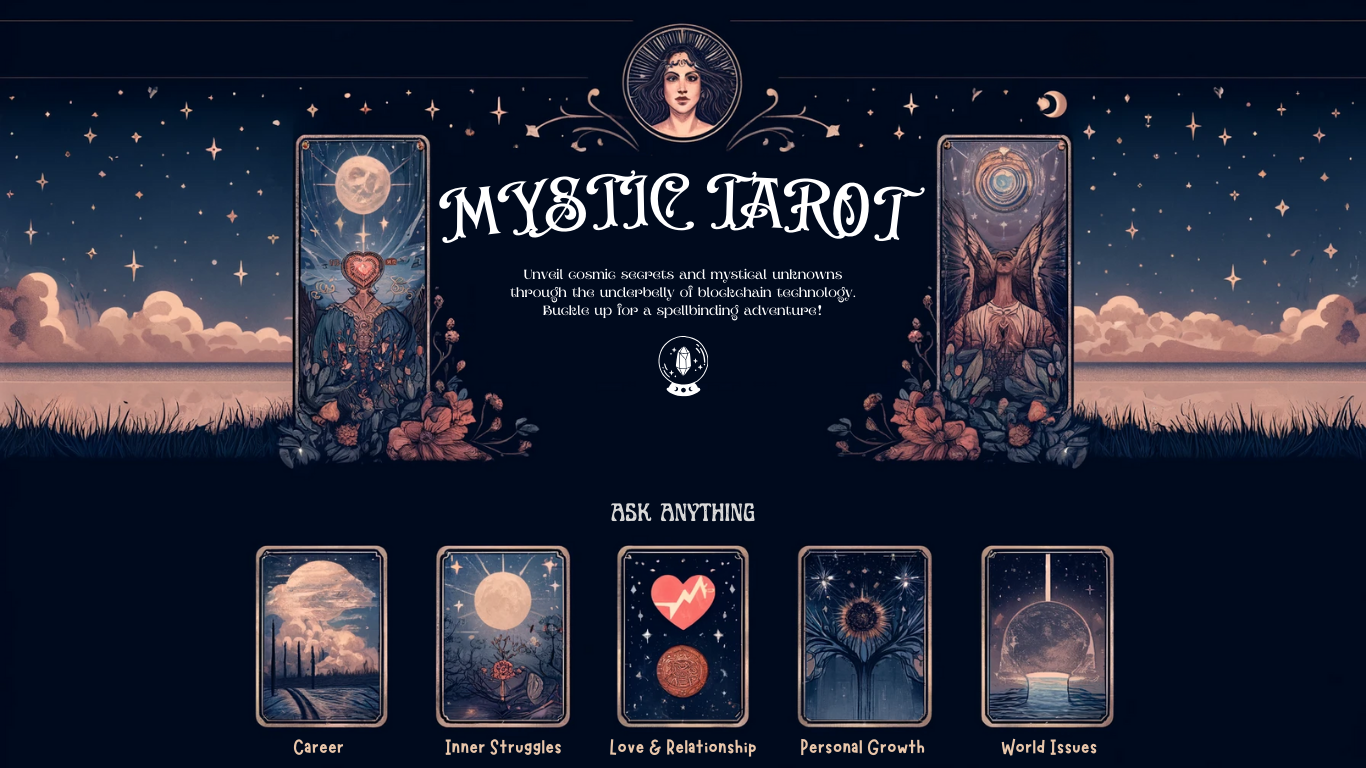
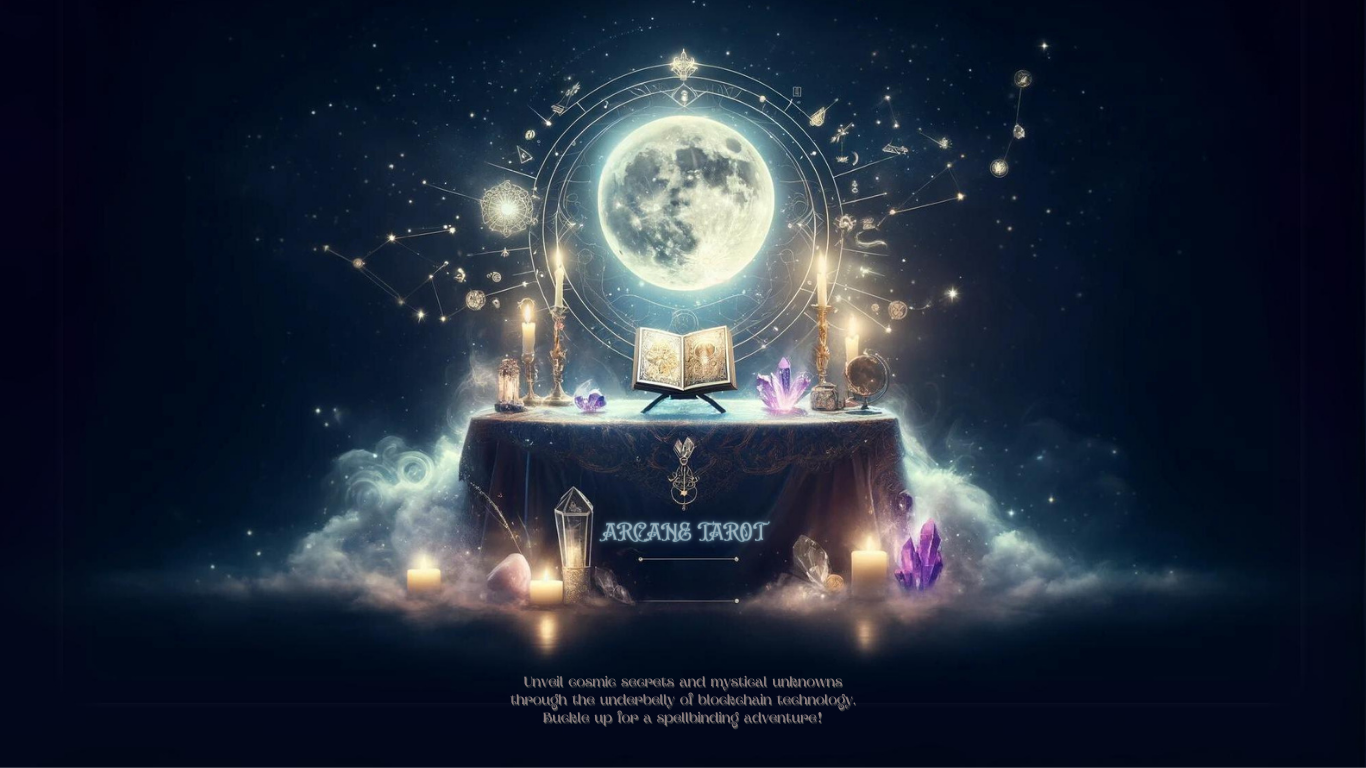
ui changes

diff --git a/src/app/page.tsx b/src/app/page.tsx
@@ -43,7 +43,7 @@ export default function Home() {
   className={`flex h-screen flex-col items-center justify-between ${lyrics && ques ? 'p-40' : 'p-60'}`}
   style={{
     backgroundImage: (lyrics && ques) 
-    ? "url(/profilebg.png)"
+    ? "url(/afterlogin.png)"
     : (address)
     ? "url(/afterlogin.png)"
     : "url(/beforelogin.png)",
@@ -63,7 +63,7 @@ export default function Home() {
       className="text-white text-2xl backdrop-blur-2xl dark:border-neutral-800 dark:from-inherit rounded-xl"
       style={{fontFamily: 'fantasy'}}
     >
-      {/* Mystic Tarot */}
+      {/* Arcane Tarot */}
     </p>
     <div
     >
@@ -80,7 +80,7 @@ export default function Home() {
               }}
               className={`bg-white rounded-full py-3 px-10 text-black uppercase ${address ? 'mt-64' : 'mt-40'}`} style={{fontFamily: 'fantasy', backgroundColor:'#E8C6AA'}}
             >
-              Get Yours Now
+              Start Now
             </button>
           )}
 
@@ -91,15 +91,15 @@ export default function Home() {
                     placeholder="Write your question here"
                     value={description}
                     onChange={(e) => setDescription(e.target.value)}
-                    className="py-3 px-4 rounded-full w-full focus:outline-none text-black mt-48"
-                    style={{ width: '100%', minWidth: '700px' }} 
+                    className="py-3 px-4 rounded-full w-full focus:outline-none text-white mt-48 placeholder-white"
+                    style={{ width: '100%', minWidth: '700px', backgroundColor:'#A89495'}} 
                   />
                   
                     <button
                     // onClick={()=>{handleDrawCardAndFetchreading();}}
-                    className="bg-white rounded-full py-3 px-10 text-black mt-4 uppercase" style={{fontFamily: 'fantasy', backgroundColor:'#E8C6AA'}}
+                    className="bg-white rounded-full py-3 px-20 text-black mt-4 uppercase" style={{fontFamily: 'fantasy', backgroundColor:'#DACFE6'}}
                   >
-                    Get my reading
+                    Ask
                   </button>
             
                 </div>

diff --git a/src/app/profile/page.js b/src/app/profile/page.js
@@ -65,7 +65,7 @@ export default function Profile() {
           style={{fontFamily: 'fantasy'}}
         >
           <Link href="/">
-          Mystic Tarot
+          Arcane Tarot
           </Link>
         </p>
         <div
